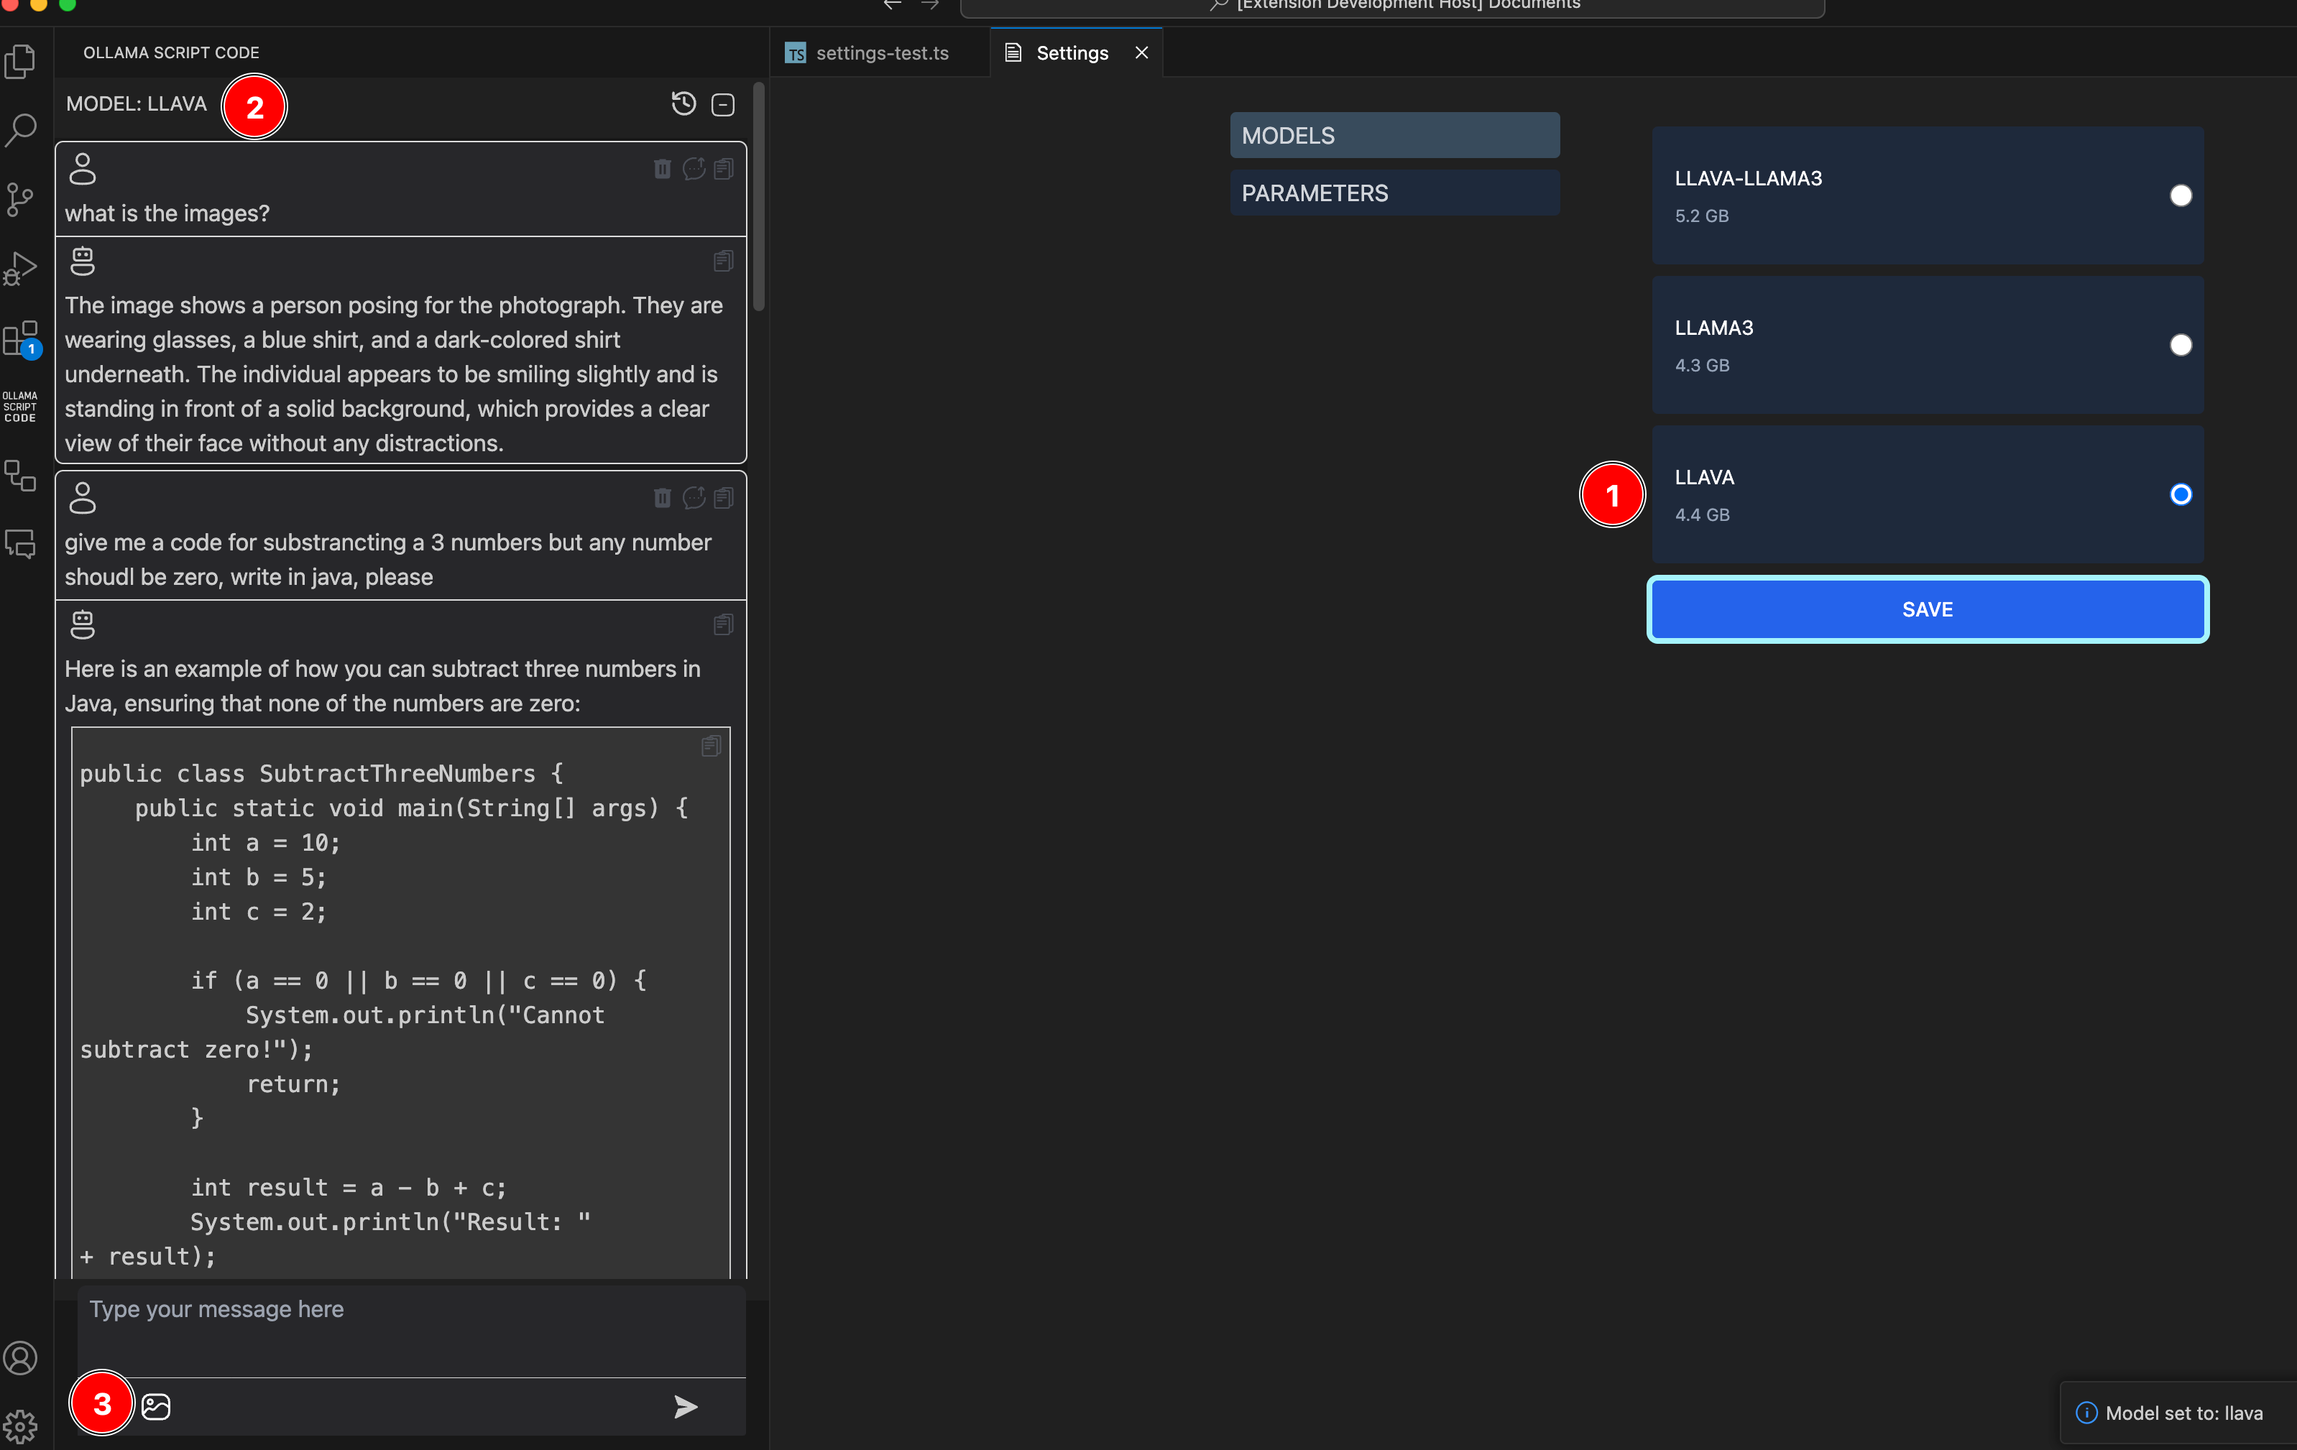
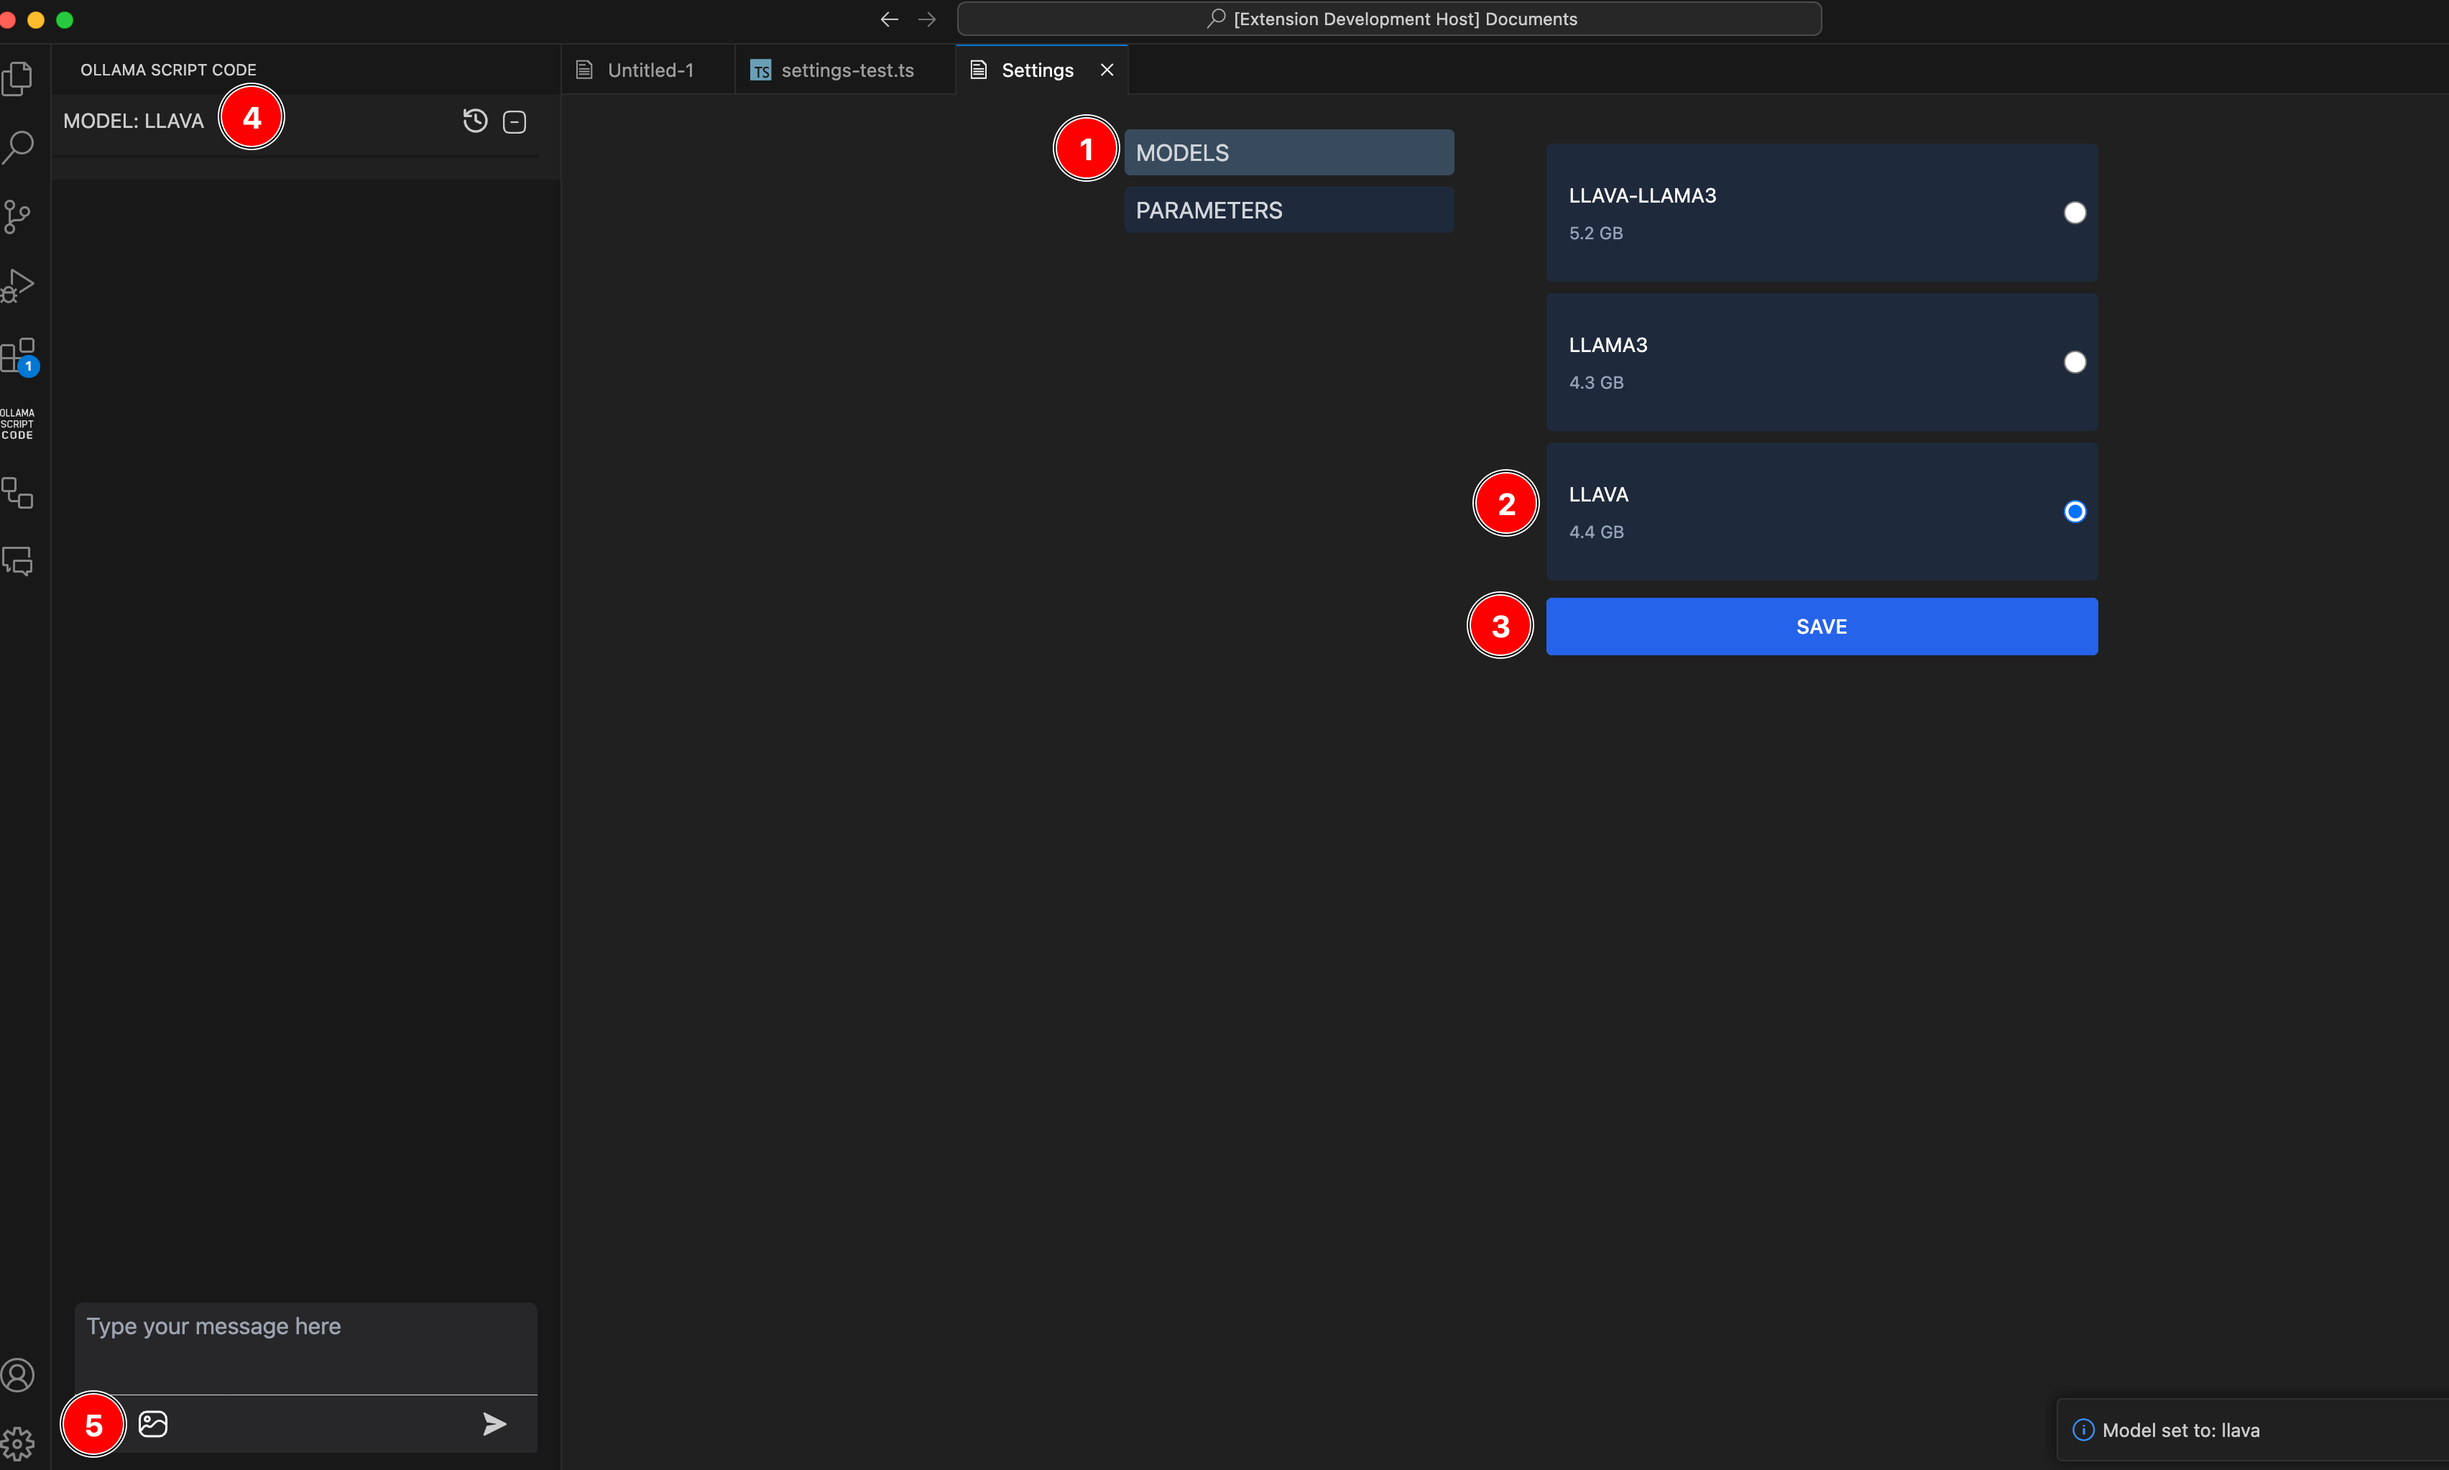
add: adding documentation about osc and osc llava model

diff --git a/README.md b/README.md
@@ -23,19 +23,48 @@ Ollama Script Code helps streamline your workflow, whether you're debugging, wri
 ## HOW TO USE
 
 - Install the extension from the Visual Studio Code Marketplace.
-- Open the settings using view > command palette, and search for "OSC Settings".
-- Set the model in the tab models.
+- Pull you model using the command `ollama pull <name_model>` in your terminal.
+  ![Local image](./images/osc_1.png)
+- Now you can see your model using this command `ollama list` in your terminal.
+  ![Local image](./images/osc_2.png)
+- Go to the settings.
+  ![Local image](./images/osc_5.png)
+- Set the model in the settings.
+  ![Local image](./images/osc_3.png)
+- Now you can use the parameters for each model.
+  ![Local image](./images/osc_4.png)
+- Autocomplete is working when you typing and press (SPACE), you can use the autocomplete by pressing the enter key.
+  ![Local image](./images/osc_a1.png)
+  ![Local image](./images/osc_a2.png)
+- the autocomplete not working with LLAVA model.
 
 ## NOTES
 
 - the extension is in the beta version, so it may have some bugs.
 - the extension is free to use, but you need to have the Ollama framework installed on your machine.
-- the extension does not collect any data from the user.
+- the extension does NOT COLLECT any data from the user.
 - the chat appears in the left sidebar, you can open it by clicking on the chat icon.
 - the autocomplete appears when you typing and press (SPACE), you can use the autocomplete by pressing the tab key.
+- PARAMETERS is not working with the LLava model.
 
 ## MODELS
 
 - Currently, Ollama script code support all models of Ollama framework.
 - You can use any model you want.
 - LLava model is included in the extension, but you need to a good memory to run it.
+
+## LLAVA MODEL
+
+- Activate the LLava model by setting it in the settings.
+- Pull the LLava model using the command `ollama pull llava` in your terminal.
+- Go to the settings and set the model.
+  ![Local image](./images/osc_5.png)
+  ![Local image](./images/setting_3.png)
+
+- After activating the LLava model, you can upload images. This input will only work with images.
+- The extension is not compatible with the LLAVA-LLAMA3 model. For now, you can use the LLava model.
+- The PARAMETERS is not working with the LLava model.
+
+- example how to use it:
+  ![Local image](./images/setting_4.png)
+- the extension of images accepted is (png, jpg, jpeg, gif, svg).

diff --git a/CHANGELOG.md b/CHANGELOG.md
@@ -7,12 +7,25 @@ Check [Keep a Changelog](http://keepachangelog.com/) for recommendations on how 
 ## [Changelog]
 
 [0.0.1]
-Initial release of Ollama Script Code
+
+- Initial release of Ollama Script Code
+
 [0.0.2]
-updating files changelogs
+
+- updating files changelogs
+
 [0.0.3]
-updating UI interface panel models
+
+- updating UI interface panel models
+
 [0.0.4]
-updating chat box and interface panel parameters
+
+- updating chat box and interface panel parameters
+
 [0.0.5]
-updating logo for marketplace vscode
+
+- updating logo for marketplace vscode
+
+[0.0.6]
+
+- adding new model LLava
